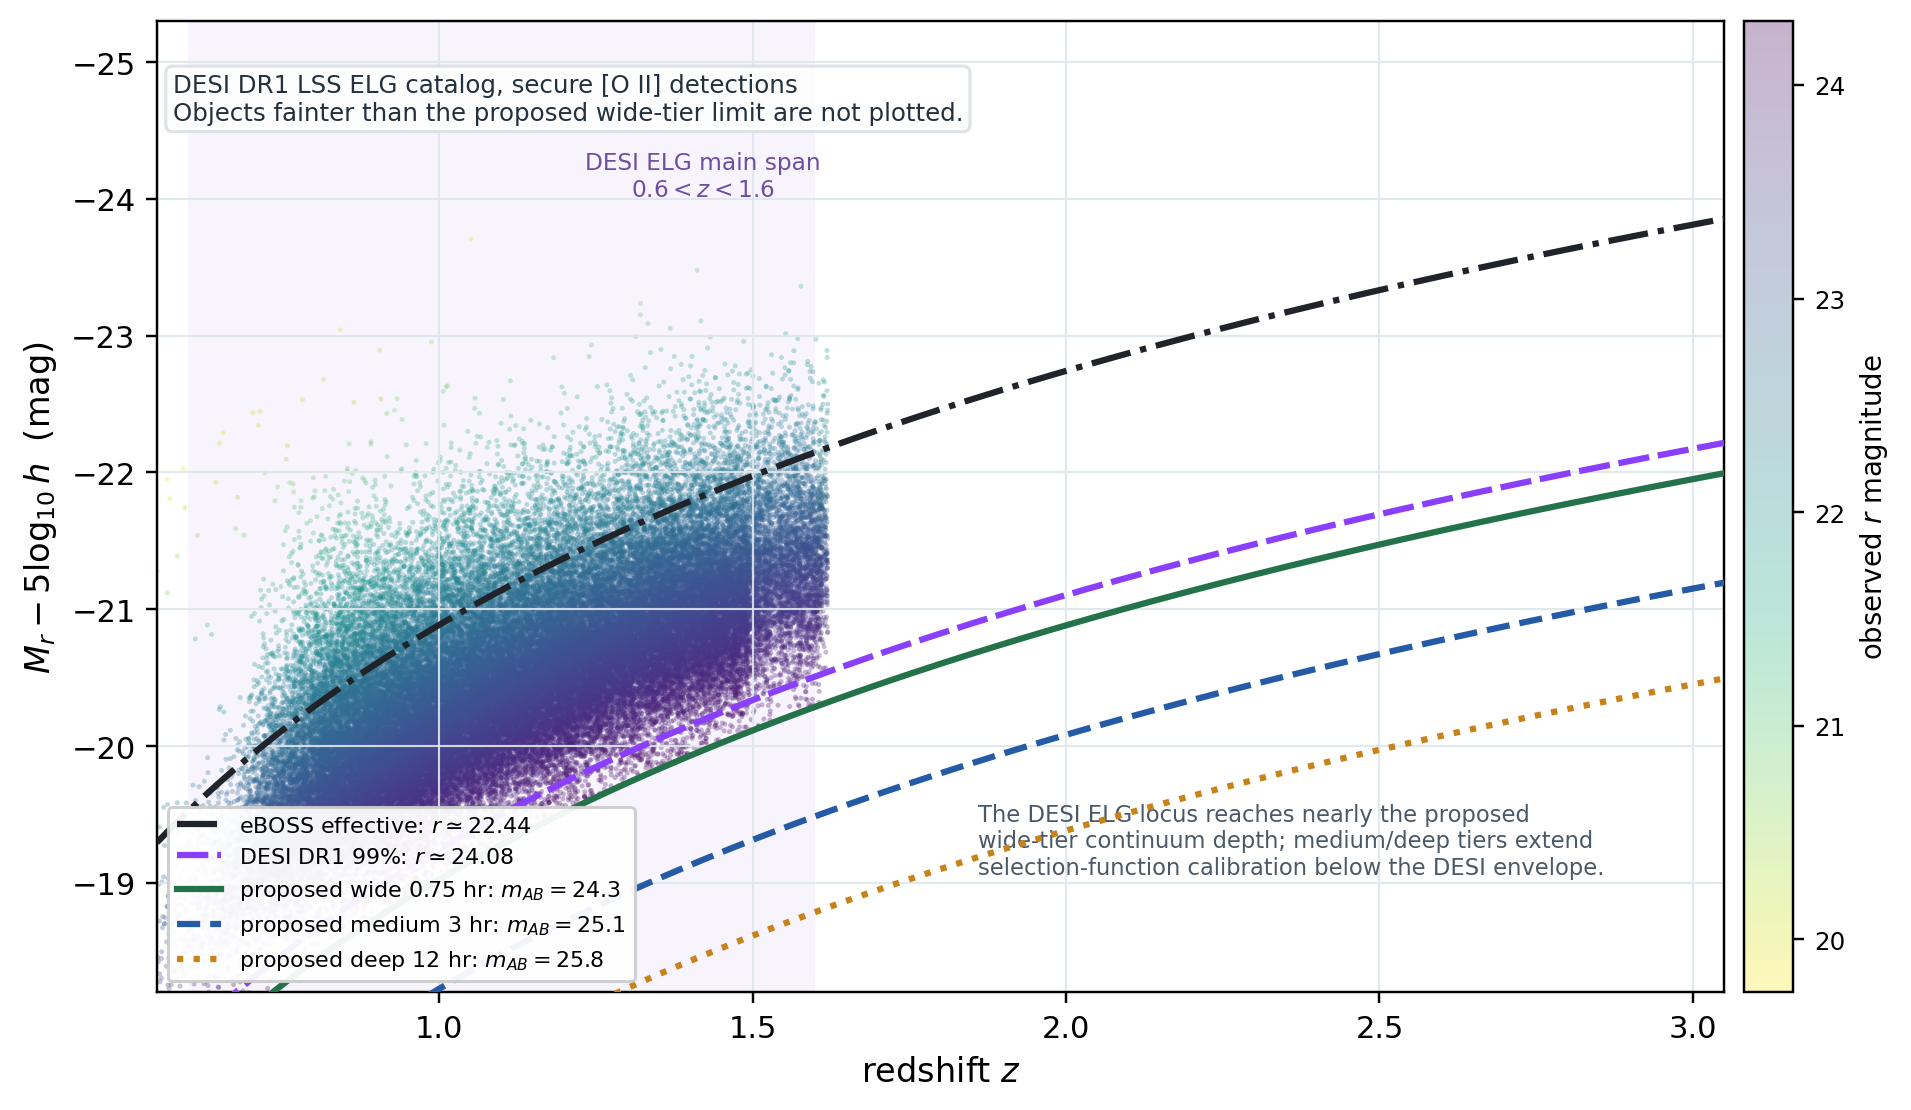
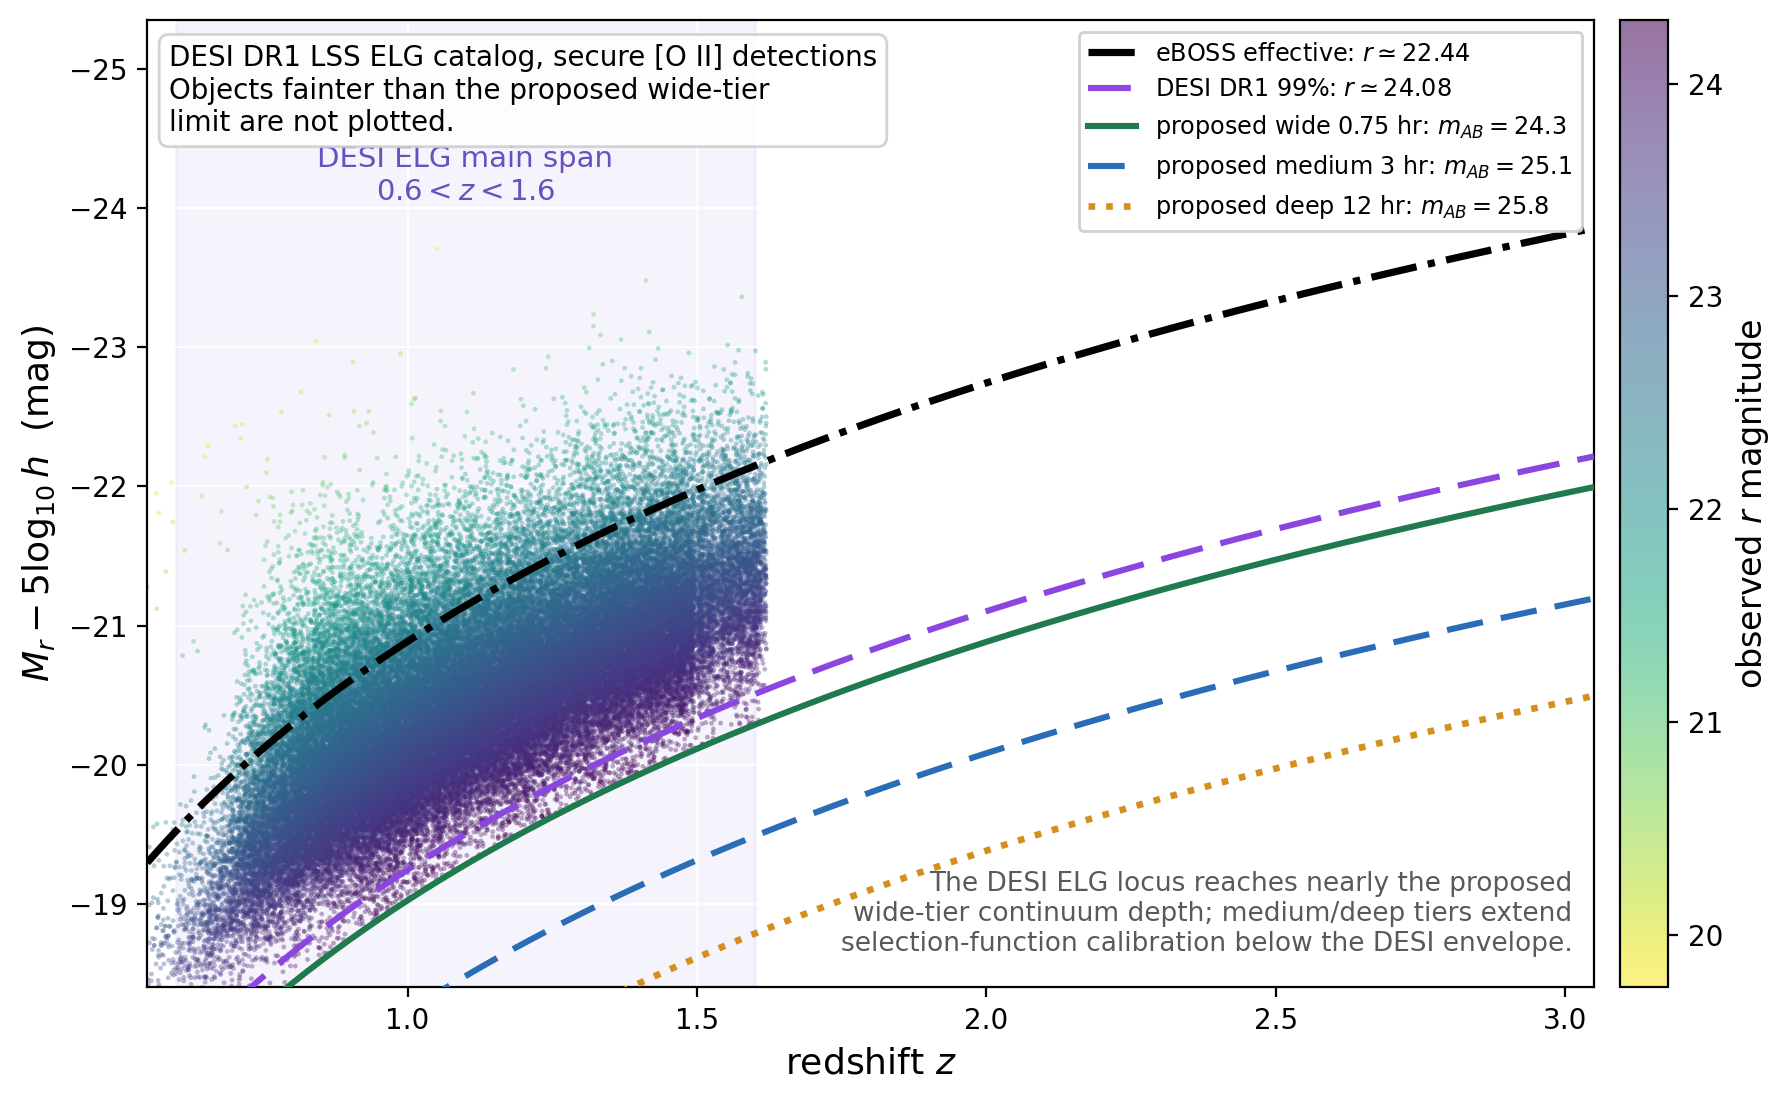
Fig 12 legend/annotation layout with a reproduction script; taller fig 25 residual panel

diff --git a/make_snia_hubble_cosmologies.py b/make_snia_hubble_cosmologies.py
@@ -1,0 +1,104 @@
+"""SN Ia Hubble diagram against four cosmologies, with a residual panel.
+
+Uses the real Pantheon+SH0ES sample (Brout et al. 2022; Scolnic et al. 2022;
+Riess et al. 2022), 1701 spectroscopically confirmed SNe Ia. The Cepheid
+calibrators are removed and the Hubble-flow cosmology sample (zHD > 0.01) is
+plotted. Because MU_SH0ES is tied to the SH0ES distance ladder, the reference
+cosmology uses the Pantheon+ flat-LCDM best fit (H0=73.04, Om0=0.334).
+
+The lower-panel legend lists only the two scatter bands that are unique to it
+(current and target per-SN standardization scatter); the cosmology-curve
+entries duplicated the upper-panel legend and are omitted.
+
+Data file: pantheonplus_SH0ES.dat
+  https://github.com/PantheonPlusSH0ES/DataRelease (Pantheon+_Data/4_DISTANCES_AND_COVAR)
+"""
+from pathlib import Path
+
+import numpy as np
+import matplotlib.pyplot as plt
+from matplotlib.gridspec import GridSpec
+from astropy.cosmology import FlatLambdaCDM, LambdaCDM, Flatw0waCDM
+
+OUT = Path("snia_hubble_cosmologies.png")
+DATA = Path("pantheonplus_SH0ES.dat")
+H0 = 73.04          # Pantheon+SH0ES (Riess et al. 2022)
+OM0 = 0.334         # Pantheon+ flat-LCDM best fit (Brout et al. 2022)
+
+LCDM = FlatLambdaCDM(H0=H0, Om0=OM0)                        # reference
+OCDM = LambdaCDM(H0=H0, Om0=OM0, Ode0=0.0)                  # open, no Lambda
+EDS = FlatLambdaCDM(H0=H0, Om0=1.0)                         # Einstein-de Sitter
+DDE = Flatw0waCDM(H0=H0, Om0=OM0, w0=-0.857, wa=-0.153)     # CPL dynamic DE
+
+C_LCDM, C_OCDM, C_EDS, C_DDE = "#21507e", "#d0392b", "#2f9e44", "#7048b6"
+
+# ---- real Pantheon+SH0ES sample ----
+names = open(DATA).readline().split()
+raw = np.genfromtxt(DATA, skip_header=1, usecols=[
+    names.index("zHD"), names.index("MU_SH0ES"),
+    names.index("MU_SH0ES_ERR_DIAG"), names.index("IS_CALIBRATOR")])
+zall, muall, errall, iscal = raw.T
+keep = (iscal < 0.5) & (zall > 0.01)        # drop Cepheid calibrators, keep Hubble flow
+zsn, mu_obs, err = zall[keep], muall[keep], errall[keep]
+print(f"Pantheon+ Hubble-flow SNe: {zsn.size}, z = {zsn.min():.3f}..{zsn.max():.3f}")
+
+zz = np.linspace(max(0.01, zsn.min()), zsn.max(), 400)
+mu_lcdm = LCDM.distmod(zz).value
+mu_ocdm = OCDM.distmod(zz).value
+mu_eds = EDS.distmod(zz).value
+mu_dde = DDE.distmod(zz).value
+print(f"median residual vs reference LCDM: {np.median(mu_obs - LCDM.distmod(zsn).value):+.3f} mag")
+
+fig = plt.figure(figsize=(8.1, 6.35), dpi=192)
+gs = GridSpec(2, 1, height_ratios=[3.0, 1.6], hspace=0.06)
+ax = fig.add_subplot(gs[0])
+axr = fig.add_subplot(gs[1], sharex=ax)
+
+# ---- upper panel ----
+C_SN = "#e8902a"   # warm amber: high-contrast against the four cosmology curves
+ax.errorbar(zsn, mu_obs, yerr=err, fmt="o", ms=3.0, mfc=C_SN, mec="#9c5a10",
+            mew=0.25, alpha=0.70, ecolor="#d9a066", elinewidth=0.4, lw=0, zorder=2,
+            label="SN Ia (Pantheon+; Brout et al. 2022)")
+ax.plot(zz, mu_lcdm, "-", color=C_LCDM, lw=2.2, zorder=6,
+        label=r"$\Lambda$CDM ($\Omega_m=0.33,\ \Omega_\Lambda=0.67$)")
+ax.plot(zz, mu_ocdm, "--", color=C_OCDM, lw=1.8, zorder=6,
+        label=r"Open CDM ($\Omega_m=0.33,\ \Omega_\Lambda=0$)")
+ax.plot(zz, mu_eds, "-.", color=C_EDS, lw=1.8, zorder=6,
+        label=r"Einstein--de Sitter ($\Omega_m=1,\ \Omega_\Lambda=0$)")
+ax.plot(zz, mu_dde, ":", color=C_DDE, lw=2.4, zorder=6,
+        label=r"Dynamic DE ($w_0=-0.857,\ w_a=-0.153$)")
+ax.set_ylabel(r"Distance Modulus $\mu$ (mag)", fontsize=11)
+ax.set_title("Type Ia Supernova Hubble Diagram", fontsize=13, weight="bold")
+ax.set_ylim(32, 47)
+ax.legend(fontsize=8.2, loc="lower right", framealpha=0.92)
+ax.tick_params(labelbottom=False)
+ax.grid(alpha=0.12)
+
+# ---- lower panel: residuals vs LCDM ----
+res_o = mu_ocdm - mu_lcdm
+res_e = mu_eds - mu_lcdm
+res_d = mu_dde - mu_lcdm
+res_sn = mu_obs - LCDM.distmod(zsn).value
+
+# scatter bands (these are the ONLY lower-panel legend entries)
+axr.axhspan(-0.12, 0.12, color="#b7e4c7", alpha=0.55, zorder=0,
+            label=r"Current scatter ($\sigma\approx0.12$ mag)")
+axr.axhspan(-0.08, 0.08, color="#74c476", alpha=0.55, zorder=0,
+            label=r"Target scatter ($\sigma\approx0.08$ mag)")
+axr.errorbar(zsn, res_sn, yerr=err, fmt="o", ms=2.8, mfc=C_SN, mec="#9c5a10",
+             mew=0.2, alpha=0.65, ecolor="#d9a066", elinewidth=0.35, lw=0, zorder=2)
+# cosmology residual curves drawn WITHOUT legend entries (no duplication)
+axr.axhline(0.0, color=C_LCDM, lw=1.8, zorder=6)
+axr.plot(zz, res_o, "--", color=C_OCDM, lw=1.7, zorder=6)
+axr.plot(zz, res_e, "-.", color=C_EDS, lw=1.7, zorder=6)
+axr.plot(zz, res_d, ":", color=C_DDE, lw=2.0, zorder=6)
+axr.set_xlabel(r"Redshift $z$", fontsize=11)
+axr.set_ylabel(r"$\Delta\mu$ (mag)", fontsize=11)
+axr.set_xlim(0.0, 2.3)
+axr.set_ylim(-0.55, 0.3)
+axr.legend(fontsize=8.2, loc="lower left", ncol=2, framealpha=0.92)
+axr.grid(alpha=0.12)
+
+fig.savefig(OUT, dpi=192, bbox_inches="tight")
+plt.close(fig)
+print(f"wrote {OUT}")

diff --git a/make_elg_absmag_depth.py b/make_elg_absmag_depth.py
@@ -1,0 +1,85 @@
+"""Observed ELG absolute-magnitude proxy versus redshift from the DESI DR1
+LSS ELG catalog (Figure fig:elgmagdepth).
+
+Points are the secure DESI DR1 ELG_LOPnotqso sample (ZWARN=0, GALAXY,
+[O II] S/N>5, m_r<=24.3) written to elg_absmag_depth_catalog_sample.dat,
+with M_r - 5log10(h) computed from FlatLambdaCDM(H0=70, Om0=0.30) and no
+K-correction. Depth curves translate observed r-band limits into the
+faintest reachable proxy magnitude: the effective eBOSS limit r=22.44, the
+DESI DR1 99th-percentile depth of the plotted sample r=24.08, and the
+proposed wide/medium/deep continuum limits 24.3/25.1/25.8.
+"""
+from pathlib import Path
+
+import numpy as np
+import matplotlib.pyplot as plt
+from astropy.cosmology import FlatLambdaCDM
+
+DATA = Path("elg_absmag_depth_catalog_sample.dat")
+OUT = Path("elg_absmag_depth_catalog.png")
+
+COSMO = FlatLambdaCDM(H0=70.0, Om0=0.30)
+HLITTLE = 0.70
+
+# (label, observed r limit, colour, linestyle, linewidth)
+LIMITS = [
+    (r"eBOSS effective: $r\simeq22.44$", 22.44, "black", "-.", 2.6),
+    (r"DESI DR1 99\%: $r\simeq24.08$".replace("\\%", "%"), 24.08, "#8b46e0", (0, (7, 3)), 2.2),
+    (r"proposed wide 0.75 hr: $m_{AB}=24.3$", 24.3, "#1f7a4d", "-", 2.2),
+    (r"proposed medium 3 hr: $m_{AB}=25.1$", 25.1, "#2a6cb5", (0, (6, 3)), 2.2),
+    (r"proposed deep 12 hr: $m_{AB}=25.8$", 25.8, "#d68f1f", ":", 2.4),
+]
+
+
+def mu_proxy(z):
+    dl = COSMO.luminosity_distance(z).to("Mpc").value
+    return 5.0 * np.log10(dl * HLITTLE * 1.0e5)
+
+
+z, absM, rmag = np.loadtxt(DATA).T
+print(f"{z.size} catalog points, z = {z.min():.2f}..{z.max():.2f}, "
+      f"r = {rmag.min():.2f}..{rmag.max():.2f}")
+
+fig, ax = plt.subplots(figsize=(9.6, 5.6), dpi=200)
+
+ax.axvspan(0.6, 1.6, color="#7f5fd0", alpha=0.07, zorder=0)
+sc = ax.scatter(z, absM, c=rmag, s=3, cmap="viridis_r", alpha=0.35,
+                linewidths=0, zorder=2, rasterized=True)
+
+zz = np.linspace(0.55, 3.05, 400)
+mu = mu_proxy(zz)
+for label, mlim, col, ls, lw in LIMITS:
+    ax.plot(zz, mlim - mu, color=col, ls=ls, lw=lw, zorder=4, label=label)
+
+ax.set_xlim(0.55, 3.05)
+ax.set_ylim(-18.4, -25.35)
+ax.set_xlabel(r"redshift $z$", fontsize=13)
+ax.set_ylabel(r"$M_r - 5\log_{10}h$  (mag)", fontsize=13)
+ax.grid(color="w", alpha=0.9, lw=0.7, zorder=1)
+
+cb = fig.colorbar(sc, ax=ax, pad=0.015)
+cb.set_label(r"observed $r$ magnitude", fontsize=12)
+cb.solids.set_alpha(0.55)
+
+ax.text(0.6 + 0.5, -24.45,
+        "DESI ELG main span\n$0.6<z<1.6$",
+        color="#6a4fc0", fontsize=10.5, ha="center", va="top", zorder=5)
+ax.text(0.015, 0.975,
+        "DESI DR1 LSS ELG catalog, secure [O II] detections\n"
+        "Objects fainter than the proposed wide-tier\n"
+        "limit are not plotted.",
+        transform=ax.transAxes, fontsize=10, va="top", zorder=5,
+        bbox=dict(facecolor="white", alpha=0.85, edgecolor="0.8",
+                  boxstyle="round,pad=0.35"))
+ax.text(0.985, 0.12,
+        "The DESI ELG locus reaches nearly the proposed\n"
+        "wide-tier continuum depth; medium/deep tiers extend\n"
+        "selection-function calibration below the DESI envelope.",
+        transform=ax.transAxes, fontsize=9.5, color="0.35",
+        ha="right", va="top", zorder=5)
+ax.legend(fontsize=8.6, loc="upper right", framealpha=0.92)
+
+fig.tight_layout()
+fig.savefig(OUT, dpi=200, bbox_inches="tight")
+plt.close(fig)
+print(f"wrote {OUT}")